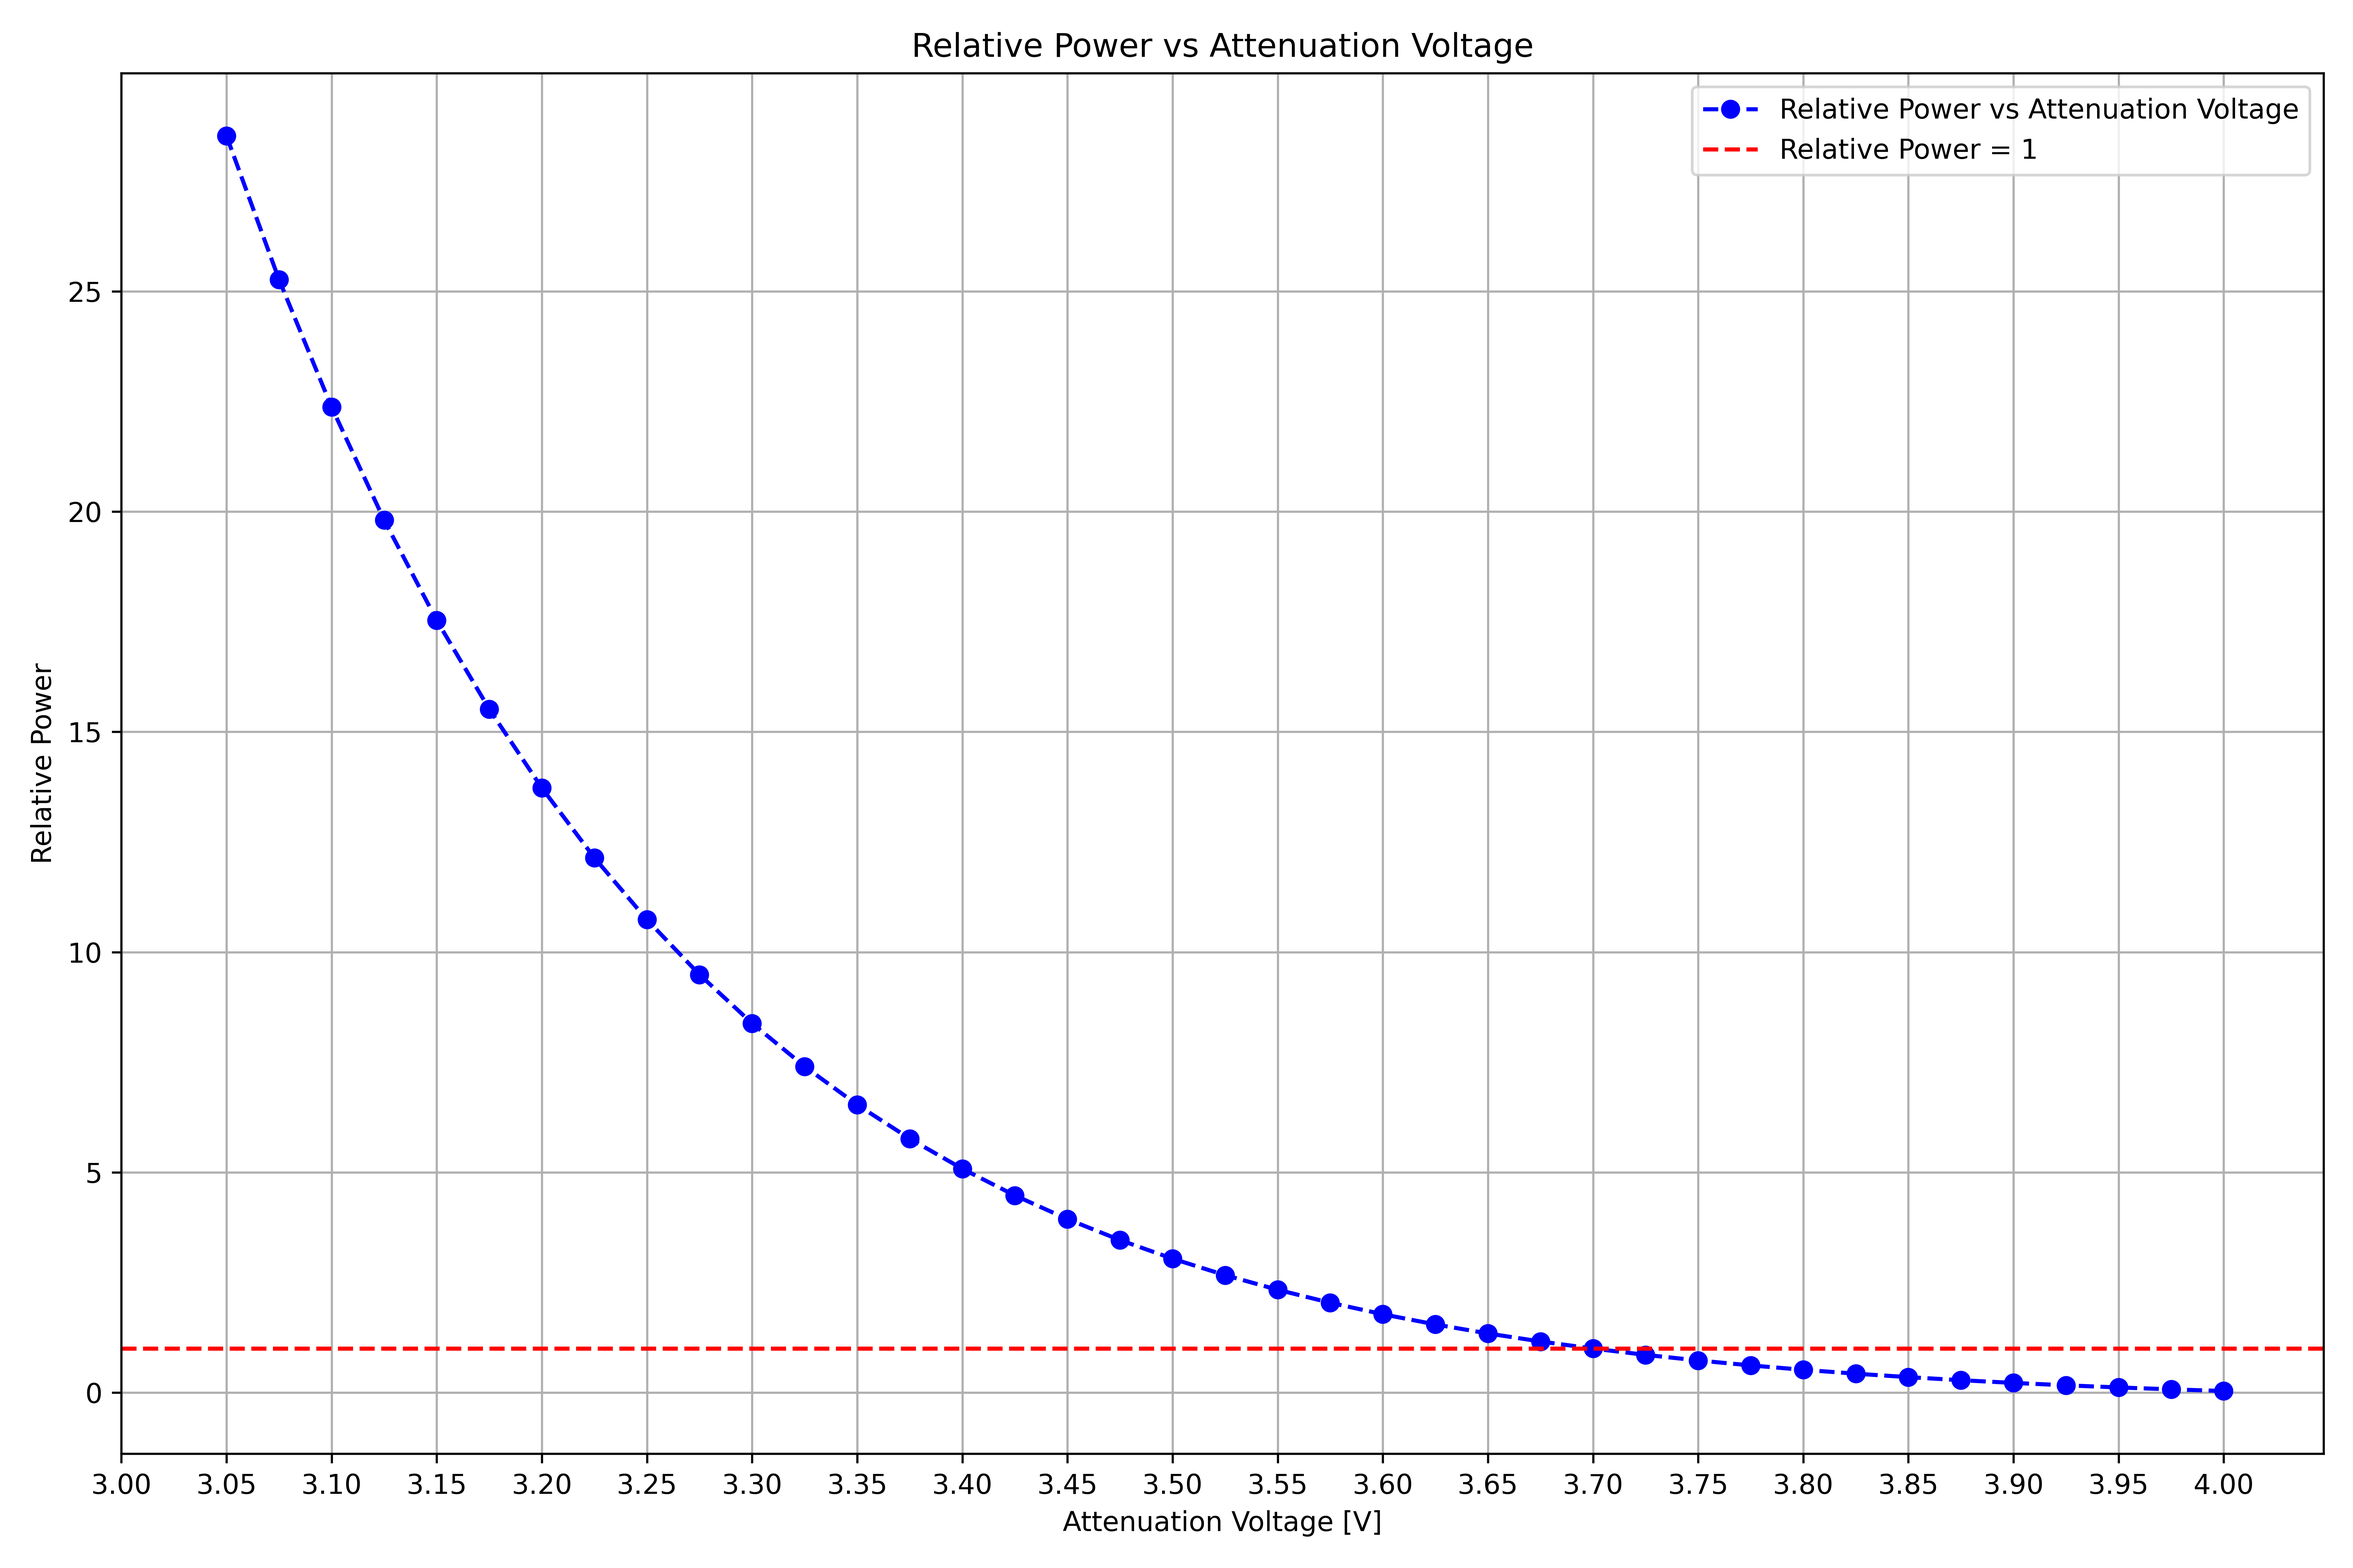
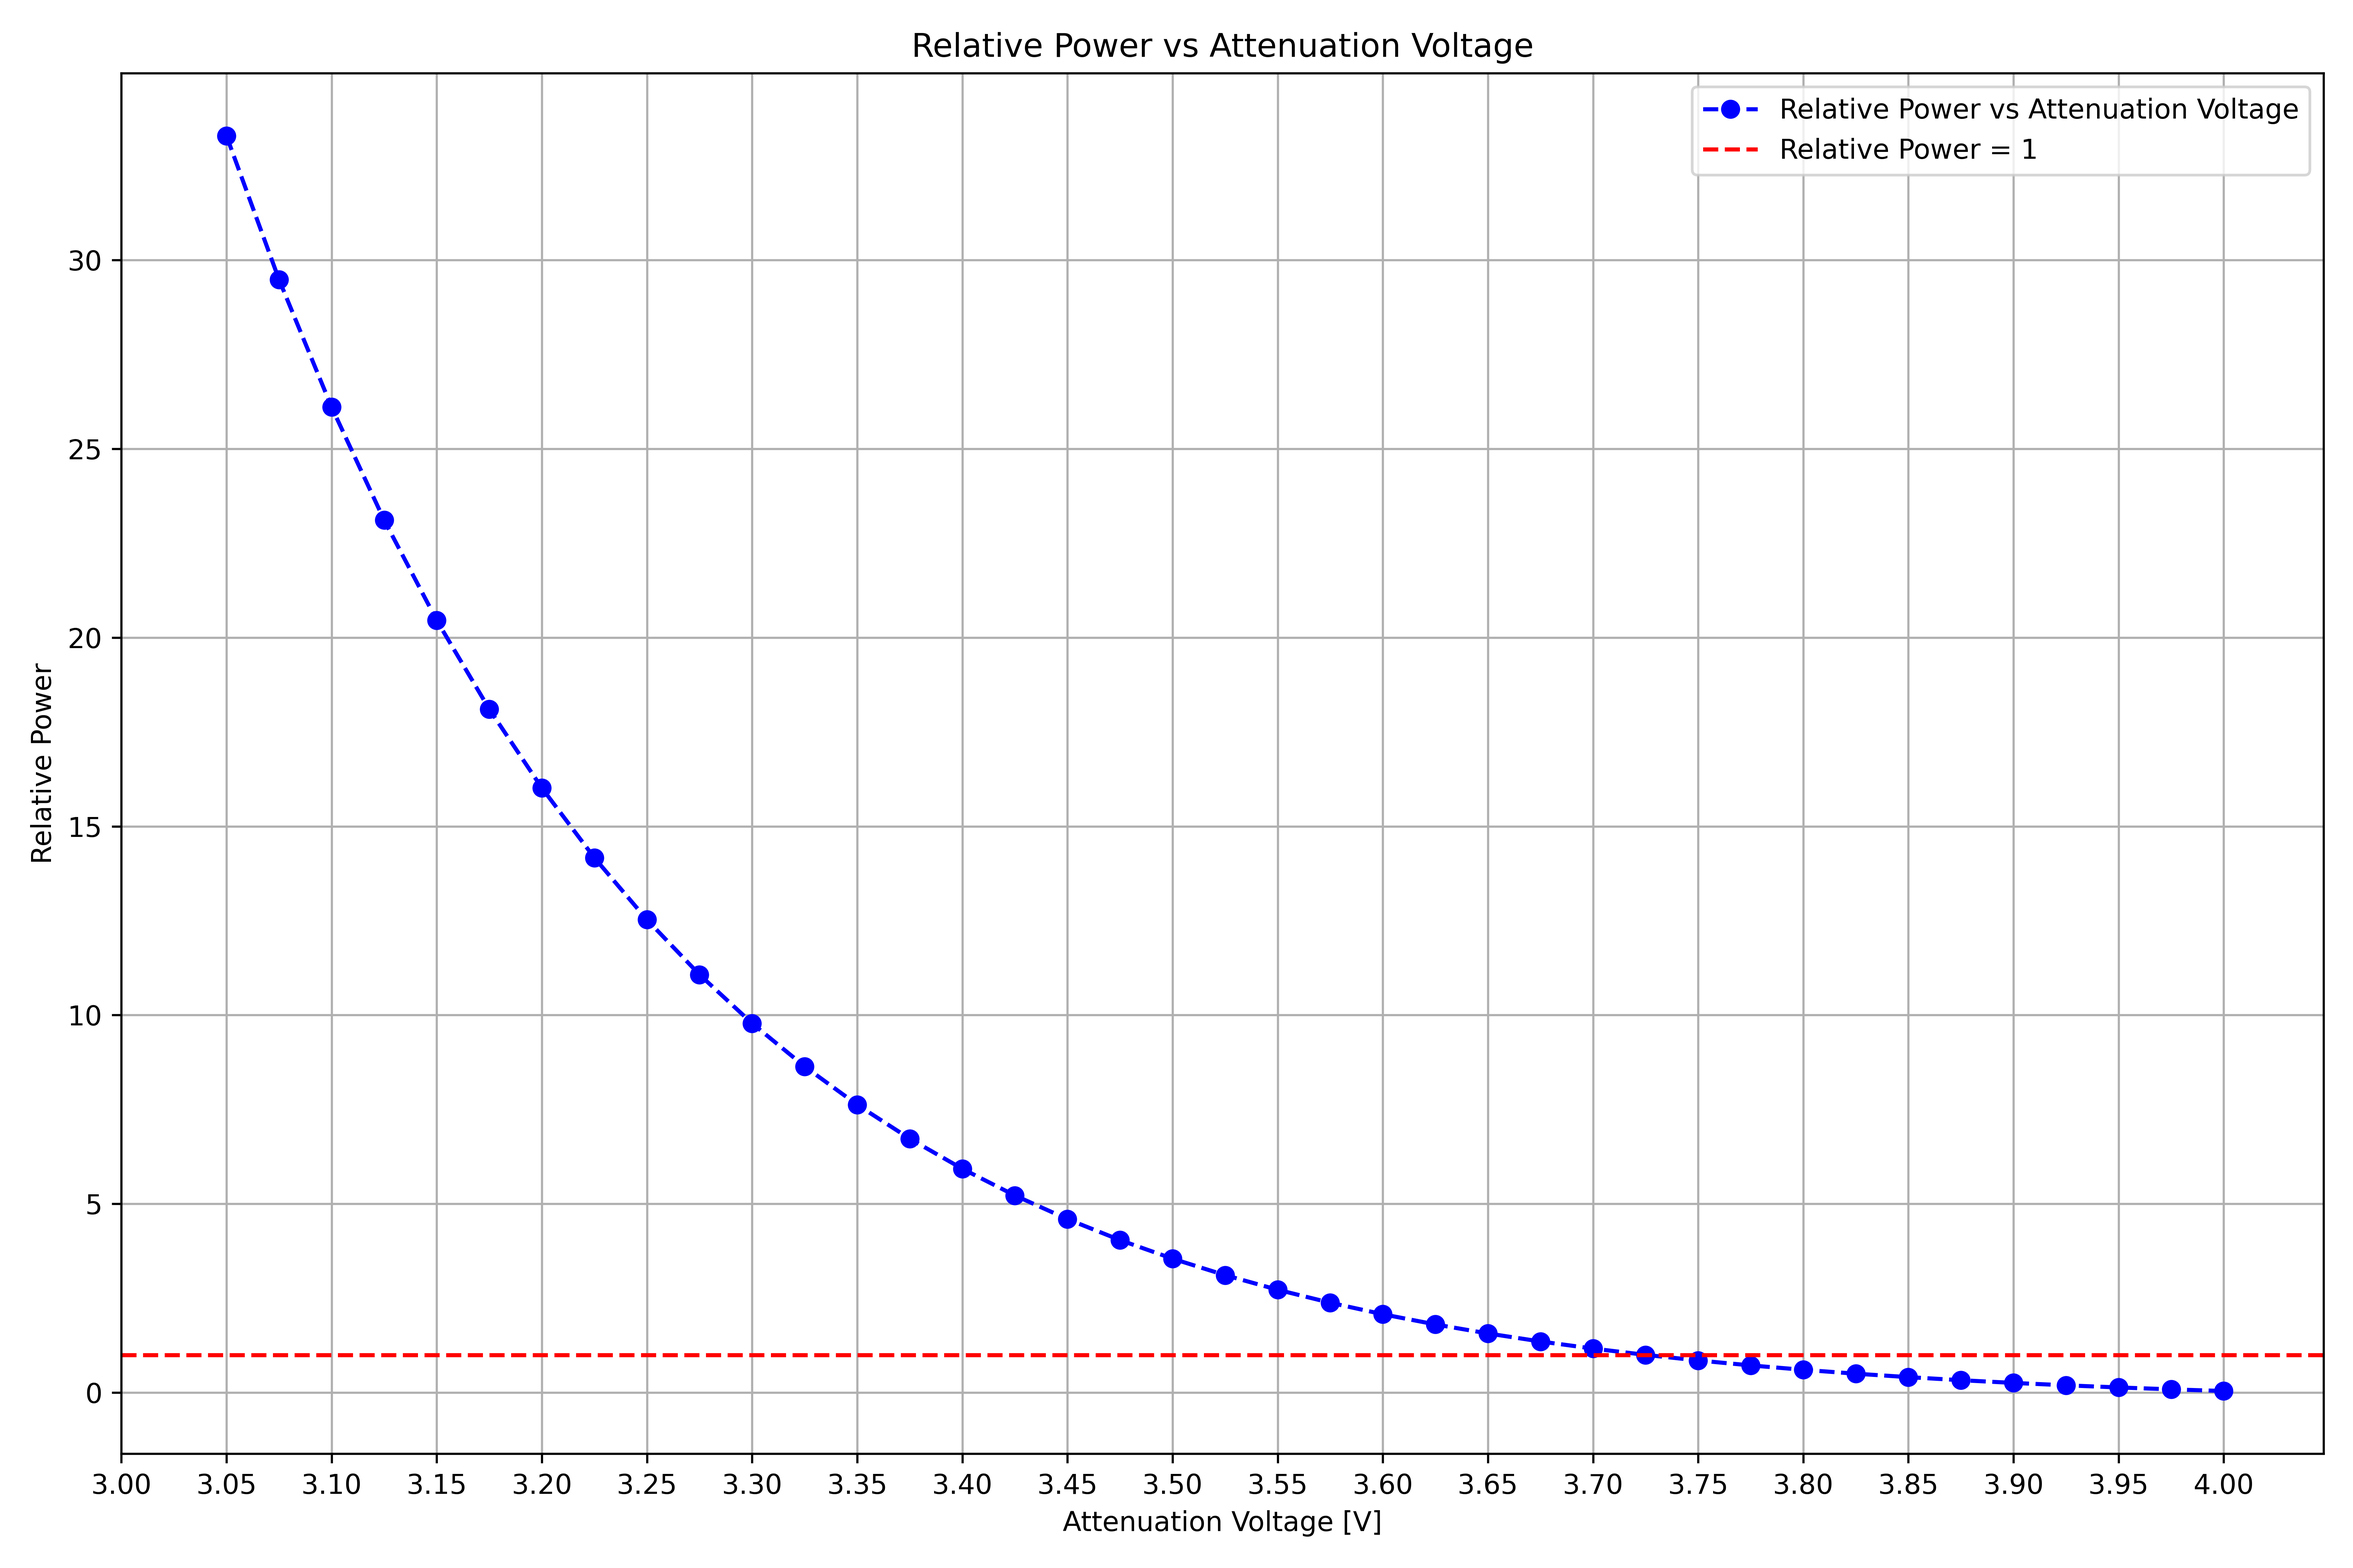
Update CreateLookupTable function to accept V_ref parameter and adjust related calls; modify lookup_table.csv with new data values.

Changed region(s): [[0.0625, 0.8438, 0.9688, 0.875], [0.0312, 0.1562, 0.0625, 0.1875]]

diff --git a/timepix4/laser_power/fit_curve.py b/timepix4/laser_power/fit_curve.py
@@ -4,16 +4,16 @@ import matplotlib.pyplot as plt
 from scipy.optimize import curve_fit
 
 
-def CreateLookupTable(filepath: str) -> None:
+def CreateLookupTable(filepath: str, V_ref: float) -> None:
     df = pd.read_csv(filepath)
-    fit_curve(df)
+    fit_curve(df, V_ref)
 
 
 def fit_func(V, A, k, C):
     return A * np.exp(-k * V) + C
 
 
-def fit_curve(df: pd.DataFrame):
+def fit_curve(df: pd.DataFrame, V_ref: float):
     P = df["power"].to_numpy()
     V = df["V"].to_numpy()
     popt, pcov = curve_fit(fit_func, V, P, p0=[P.max(), 1.0 / (np.ptp(V)), P.min()])
@@ -32,8 +32,6 @@ def fit_curve(df: pd.DataFrame):
     plt.savefig("PowerVsVoltage.png", dpi=600)
     plt.show()
 
-    # generate lookup table from fit (relative to V=3.700)
-    V_ref = 3.700
     P_ref = fit_func(V_ref, *popt)
     # voltages from 4.000 down to 3.050 in steps of 0.025
     Vs = np.linspace(4.0, 3.05, int(round((4.0 - 3.05) / 0.025)) + 1)
@@ -41,4 +39,3 @@ def fit_curve(df: pd.DataFrame):
     factors = fit_func(Vs, *popt) / P_ref
     lut = pd.DataFrame({"voltage": Vs, "relative_factor": factors})
     lut.to_csv("lookup_table.csv", index=False)
-    print("Lookup table saved to lookup_table.csv")

diff --git a/LaserPower.py b/LaserPower.py
@@ -5,7 +5,7 @@ def main():
     filepath = "Data/Laser Power/Power.csv"
     # PowerVoltagePlot(filepath)
     # filepath = "Data/Laser Power/laser_power_933nm.csv"
-    CreateLookupTable(filepath)
-    # PlotRelativePower("lookup_table.csv")
+    # CreateLookupTable(filepath, 3.725)
+    PlotRelativePower("lookup_table.csv")
 if __name__ == "__main__":
     main()
